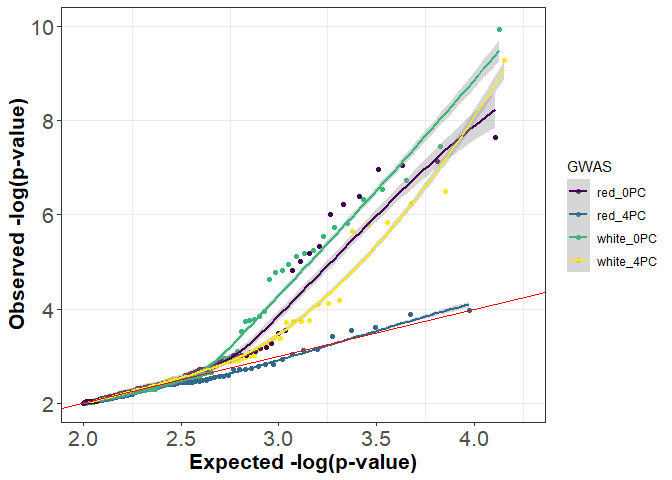
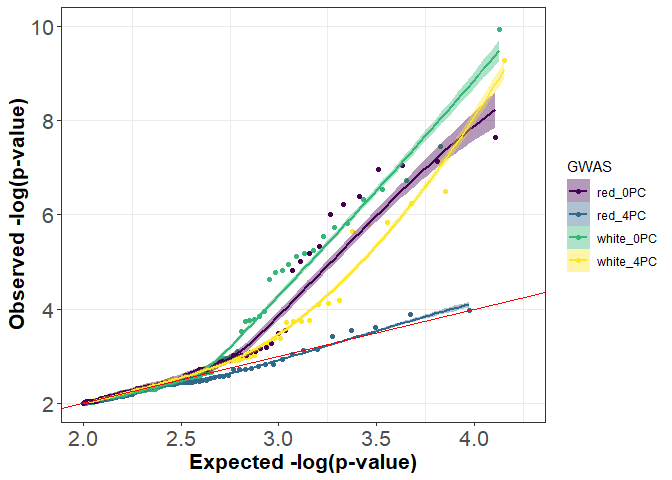
update qq plot confidence interval colors

diff --git a/Data Analysis/CNL_GWAS_PHS.md b/Data Analysis/CNL_GWAS_PHS.md
@@ -1,7 +1,7 @@
 CNL GWAS PHS
 ================
 S.A. Martinez
-2020.04.14
+2020.04.20
 
 **Genome-wide association analysis** of the Cornell Master elite nursery for the Preharvest Sprouting trait using the spike-wetting tests.
 
@@ -466,9 +466,10 @@ QQ_df <- rbind(QQ_df, white0df, red4df, red0df)
 library("ggplot2")
 ggplot(data = QQ_df, aes(x = expected, y = observed, color = GWAS))+
   geom_point()+
-  geom_smooth(aes(group=GWAS))+
+  geom_smooth(aes(group=GWAS,fill = GWAS))+
   geom_abline(intercept = 0, color = "Red")+
   scale_colour_viridis_d()+
+  scale_fill_viridis_d()+
   ylim(2,10)+xlim(2,4.25)+theme_bw()+
   ylab("Observed -log(p-value)") + xlab("Expected -log(p-value)")+
   theme(panel.grid.major.x = element_blank(),
